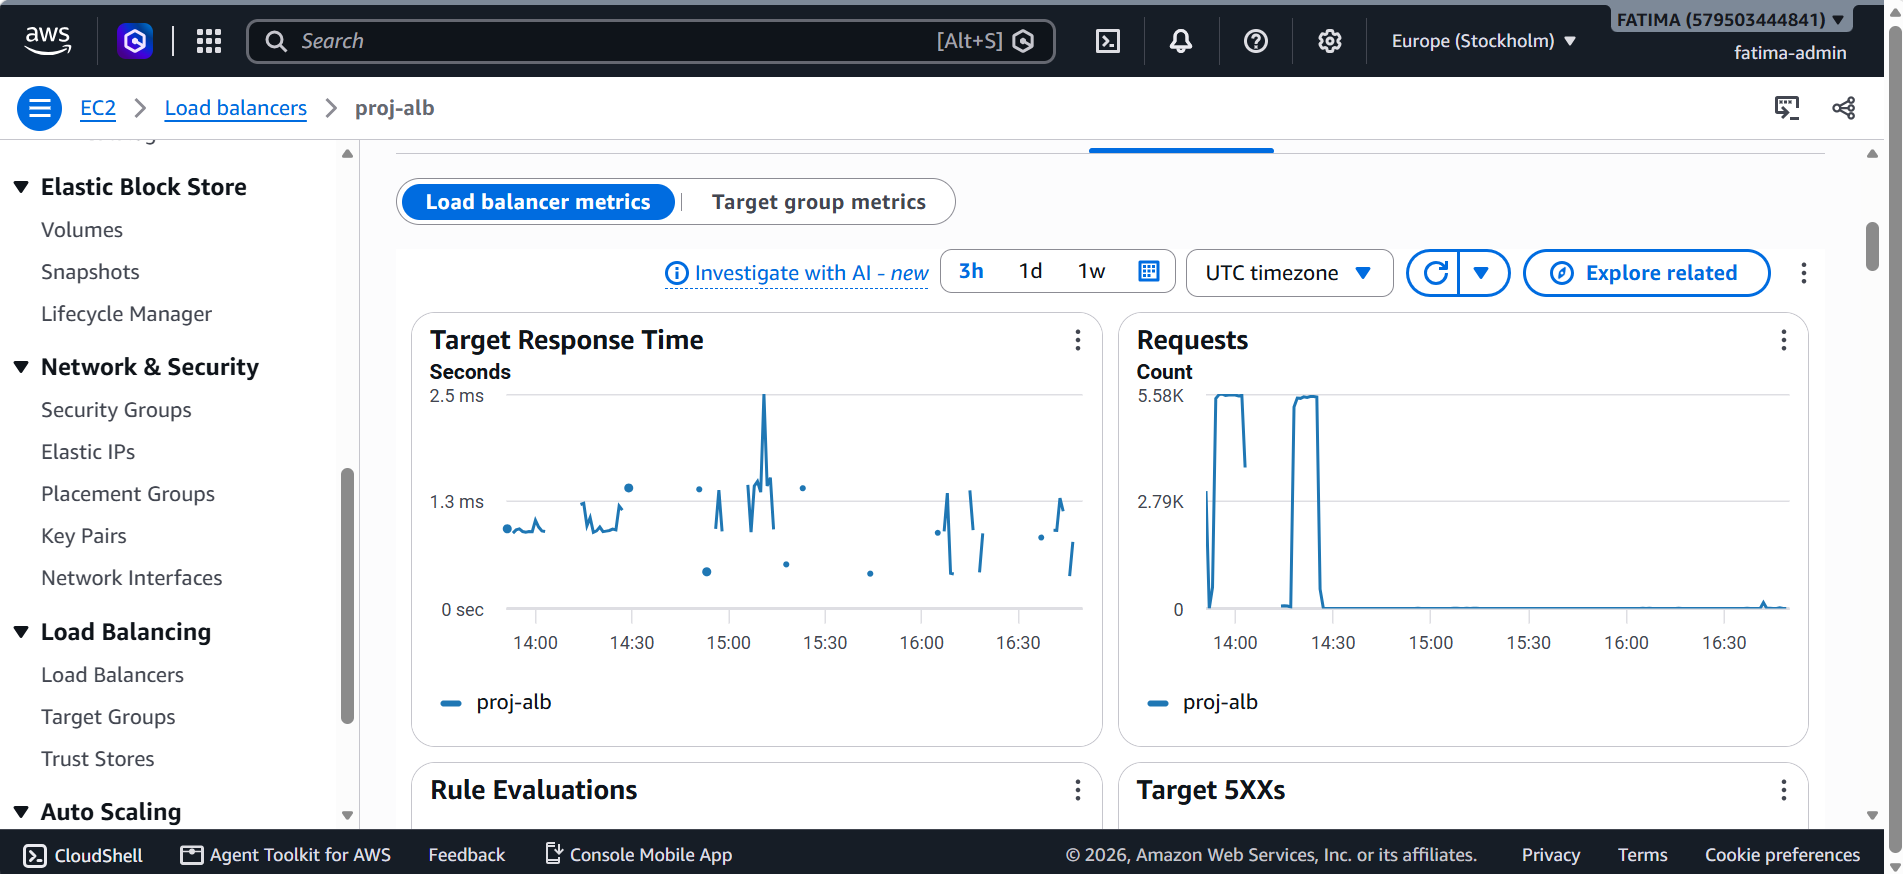
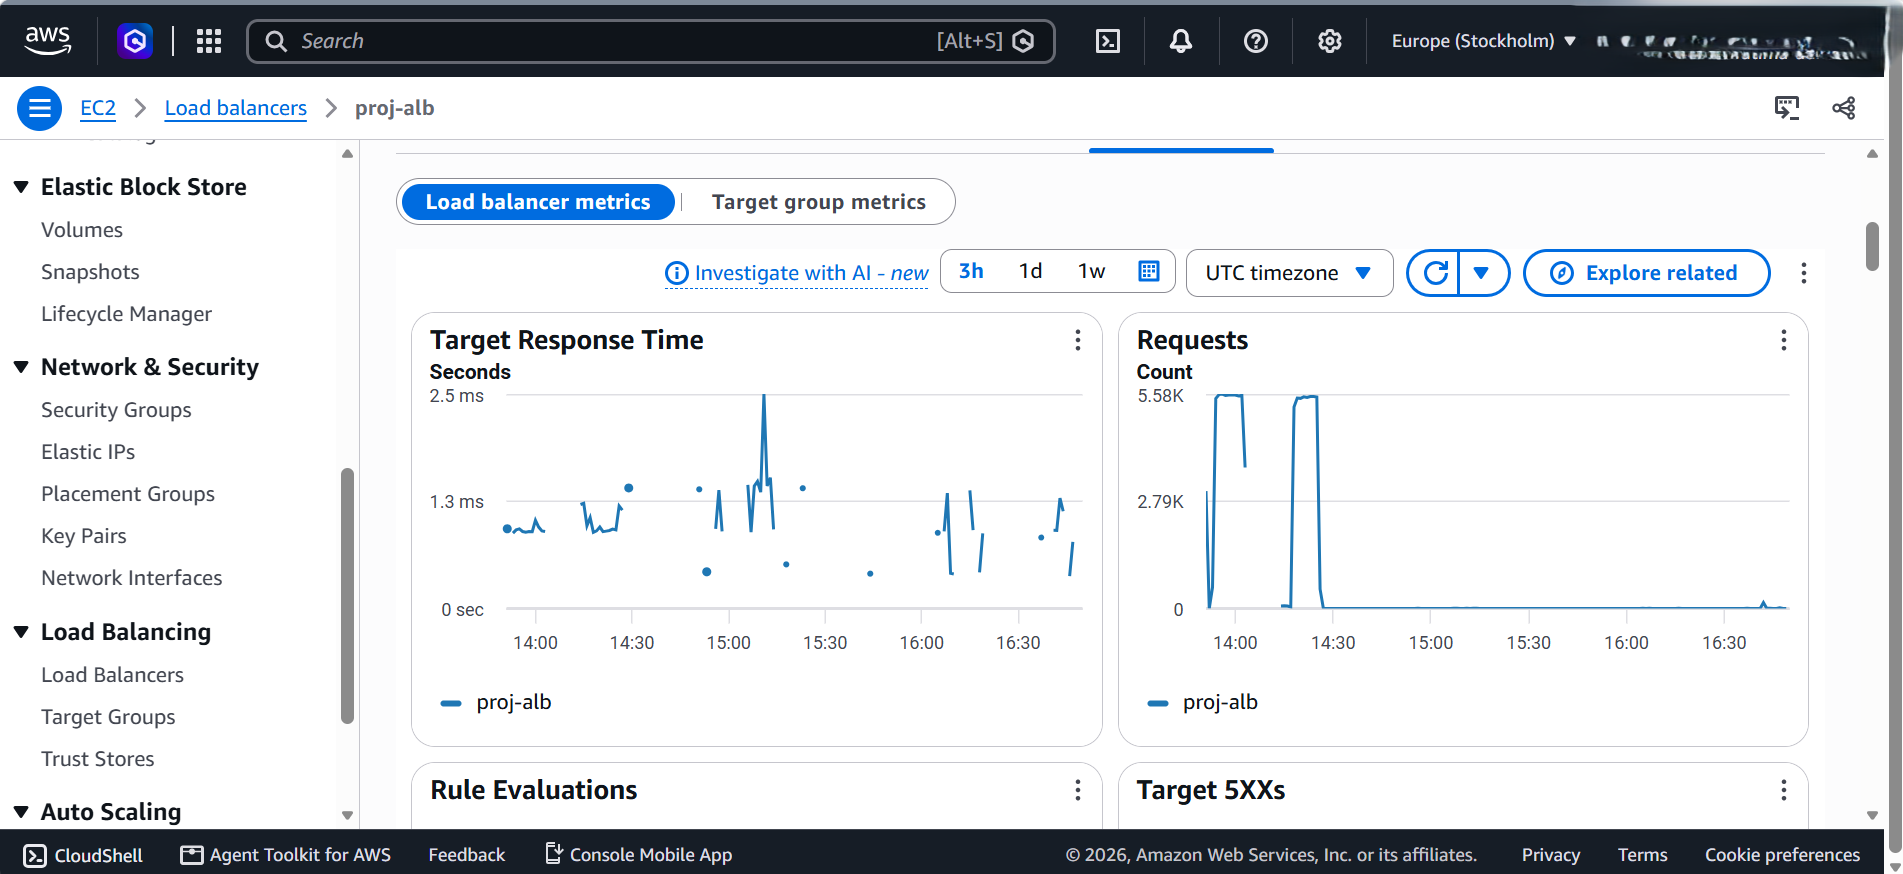
update readme and screenshots

Changed region(s): [[0.8371, 0.0, 1.0, 0.0927]]

diff --git a/README.md b/README.md
@@ -30,10 +30,11 @@ Auto Scaling Group (2-4 x t3.micro), Route 53, ACM (HTTPS).
 
 ## Tests
 - **High availability:** terminated a running server — Auto Scaling replaced it automatically and the site stayed online.
-- **Scalability:** sent traffic from AWS CloudShell — the group scaled out beyond the base 2 instances, then scaled back in after the load stopped.
+- **Scalability:** sent traffic from AWS CloudShell — the group scaled out from 2 to 4 instances under load, then scaled back in to 2 after the load stopped.
 
-## Demo video
-[Watch the demo](your-video-link)
+## Demo videos
+- [Highly available & auto-scaling website](https://www.youtube.com/watch?v=zZqw2n38gPo)
+- [Live site on my custom domain with HTTPS](https://youtu.be/EOsxDs6rOco)
 
 ## What I learned
 - How a VPC fits together: public vs private subnets, route tables, Internet Gateway vs NAT Gateway.
@@ -44,4 +45,4 @@ Auto Scaling Group (2-4 x t3.micro), Route 53, ACM (HTTPS).
 Built and deleted on the same day to keep costs low; total cost about $1-3.
 
 ---
-Built as part of the Edversity Cloud Engineering Program.# -aws-highly-available-website
+Built as part of the Edversity Cloud Engineering Program.
